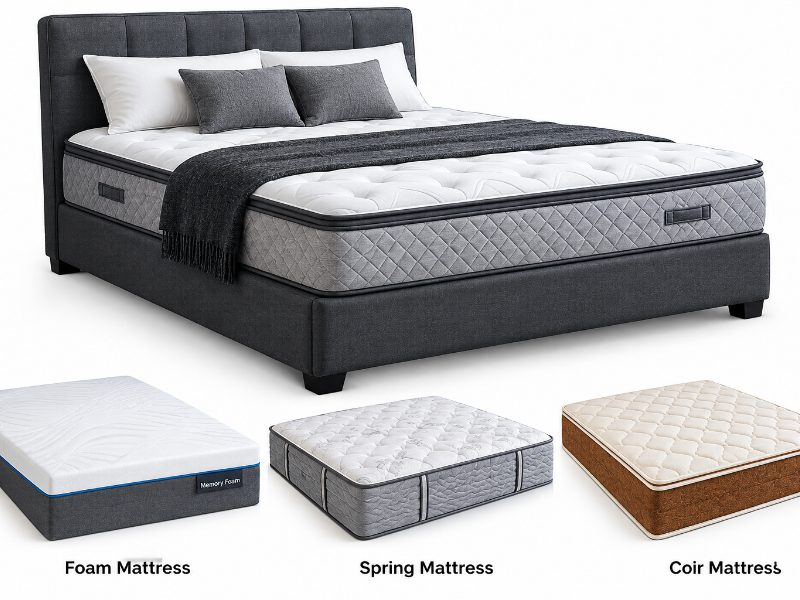
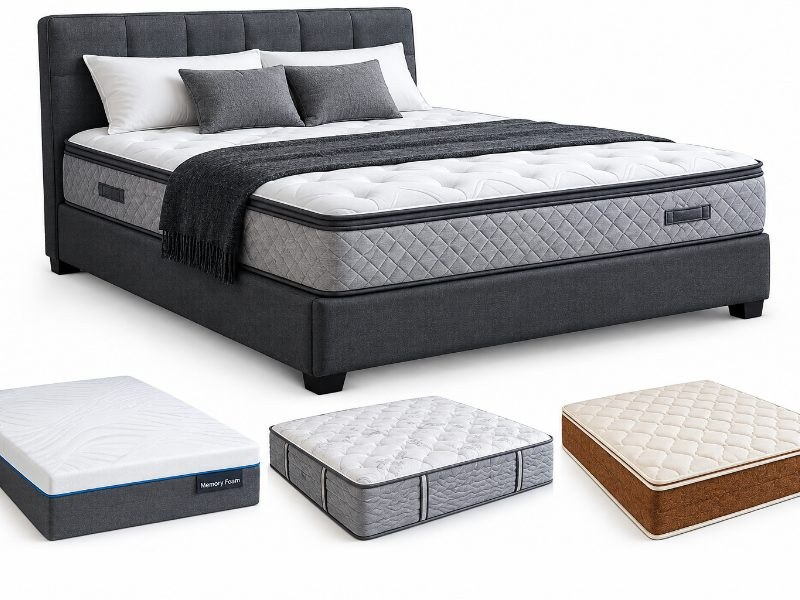
Remove printed labels from photos, plain form messages, owner checklist
- Paint out the 'Moulded Chair', 'Steel Stool' and mattress-type labels
  baked into four product images; version their URLs past the 1-year cache
- Rewrite enquiry form status messages without dashes
- Delete the unused public/previews design mockups
- Add OWNER-TODO.md: photos, owner note, claims to verify, guessed products

Claude-Session: https://claude.ai/code/session_01XQYbbGfWM6s62qHx4fDPNs

Changed region(s): [[0.4375, 0.93, 0.625, 0.96], [0.0625, 0.93, 0.25, 0.96], [0.8438, 0.93, 0.9688, 0.96]]

diff --git a/public/js/main.js b/public/js/main.js
@@ -418,13 +418,13 @@
         }).then(function (res) {
           if (res.ok) {
             sendToWhatsApp(fallbackWa,
-              'Thanks — your enquiry has been sent. We will call you back on ' + phone +
+              'Got it, thanks. We’ll call you on ' + phone +
               '. Opening WhatsApp now.');
           } else {
-            sendToWhatsApp(fallbackWa, 'Opening WhatsApp with your enquiry — send the message to reach us.');
+            sendToWhatsApp(fallbackWa, 'Opening WhatsApp. Press send and the message comes to us.');
           }
         }).catch(function () {
-          sendToWhatsApp(fallbackWa, 'Opening WhatsApp with your enquiry — send the message to reach us.');
+          sendToWhatsApp(fallbackWa, 'Opening WhatsApp. Press send and the message comes to us.');
         });
       }
 
@@ -445,13 +445,13 @@
       }).then(function (r) {
         if (r.noBackend) return postToNetlify();
         if (!r.ok || !r.body.success) {
-          var msg = (r.body && r.body.error) || 'Could not save your enquiry. Please try again.';
+          var msg = (r.body && r.body.error) || 'That didn’t go through. Please try again, or call us on 99376 01505.';
           setStatus(msg, true);
           shake(submitEl);
           return null;
         }
         sendToWhatsApp(r.body.waLink,
-          'Thanks — your enquiry has been sent. We will call you back on ' + phone + '. Opening WhatsApp now.');
+          'Got it, thanks. We’ll call you on ' + phone + '. Opening WhatsApp now.');
         return null;
       }).catch(function () {
         /* Offline, or the request never landed. */

diff --git a/public/js/photos.js b/public/js/photos.js
@@ -11,12 +11,12 @@ window.BF_PHOTOS = {
   "feat-sofa": "feat-sofa.jpg",
   "cat-dining": "cat-dining.jpg",
   "feat-dining": "feat-dining.jpg",
-  "cat-mattress": "cat-mattress.jpg",
-  "feat-mattress": "feat-mattress.jpg",
+  "cat-mattress": "cat-mattress.jpg?v=2",
+  "feat-mattress": "feat-mattress.jpg?v=2",
   "cat-study": "cat-study.jpg",
   "feat-study": "feat-study.jpg",
-  "cat-plastic": "cat-plastic.jpg",
-  "feat-plastic": "feat-plastic.jpg",
+  "cat-plastic": "cat-plastic.jpg?v=2",
+  "feat-plastic": "feat-plastic.jpg?v=2",
   "cat-mandir": "cat-mandir.jpg",
   "feat-mandir": "feat-mandir.jpg",
   "cat-tv": "cat-tv.jpg",

diff --git a/public/404.html b/public/404.html
@@ -53,8 +53,8 @@
     <div class="footer-copy">© <span data-year>2026</span> Balaji Furnitures, Jharigam.</div>
   </footer>
 </div>
-<script src="/js/photos.js"></script>
+<script src="/js/photos.js?v=4"></script>
 <script src="/js/data.js?v=4"></script>
-<script src="/js/main.js?v=8"></script>
+<script src="/js/main.js?v=9"></script>
 </body>
 </html>

diff --git a/public/privacy-policy.html b/public/privacy-policy.html
@@ -71,8 +71,8 @@
     <div class="footer-copy">© 2026 Balaji Furnitures, Jharigam.</div>
   </footer>
 </div>
-<script src="js/photos.js?v=3"></script>
+<script src="js/photos.js?v=4"></script>
 <script src="js/data.js?v=4"></script>
-<script src="js/main.js?v=8"></script>
+<script src="js/main.js?v=9"></script>
 </body>
 </html>

diff --git a/public/refund-policy.html b/public/refund-policy.html
@@ -70,8 +70,8 @@
     <div class="footer-copy">© 2026 Balaji Furnitures, Jharigam.</div>
   </footer>
 </div>
-<script src="js/photos.js?v=3"></script>
+<script src="js/photos.js?v=4"></script>
 <script src="js/data.js?v=4"></script>
-<script src="js/main.js?v=8"></script>
+<script src="js/main.js?v=9"></script>
 </body>
 </html>

diff --git a/public/shipping-delivery-policy.html b/public/shipping-delivery-policy.html
@@ -70,8 +70,8 @@
     <div class="footer-copy">© 2026 Balaji Furnitures, Jharigam.</div>
   </footer>
 </div>
-<script src="js/photos.js?v=3"></script>
+<script src="js/photos.js?v=4"></script>
 <script src="js/data.js?v=4"></script>
-<script src="js/main.js?v=8"></script>
+<script src="js/main.js?v=9"></script>
 </body>
 </html>

diff --git a/public/terms.html b/public/terms.html
@@ -73,8 +73,8 @@
     <div class="footer-copy">© 2026 Balaji Furnitures, Jharigam.</div>
   </footer>
 </div>
-<script src="js/photos.js?v=3"></script>
+<script src="js/photos.js?v=4"></script>
 <script src="js/data.js?v=4"></script>
-<script src="js/main.js?v=8"></script>
+<script src="js/main.js?v=9"></script>
 </body>
 </html>

diff --git a/public/products.html b/public/products.html
@@ -114,9 +114,9 @@
 
 </div>
 
-<script src="js/photos.js?v=3"></script>
+<script src="js/photos.js?v=4"></script>
 <script src="js/data.js?v=4"></script>
-<script src="js/main.js?v=8"></script>
+<script src="js/main.js?v=9"></script>
 <script src="js/products.js?v=4"></script>
 </body>
 </html>

diff --git a/public/index.html b/public/index.html
@@ -251,8 +251,8 @@
   </div>
 
 </div>
-<script src="js/photos.js?v=3"></script>
+<script src="js/photos.js?v=4"></script>
 <script src="js/data.js?v=4"></script>
-<script src="js/main.js?v=8"></script>
+<script src="js/main.js?v=9"></script>
 </body>
 </html>

diff --git a/public/about.html b/public/about.html
@@ -148,8 +148,8 @@
 
 </div>
 
-<script src="js/photos.js?v=3"></script>
+<script src="js/photos.js?v=4"></script>
 <script src="js/data.js?v=4"></script>
-<script src="js/main.js?v=8"></script>
+<script src="js/main.js?v=9"></script>
 </body>
 </html>

diff --git a/public/contact.html b/public/contact.html
@@ -175,8 +175,8 @@
 
 </div>
 
-<script src="js/photos.js?v=3"></script>
+<script src="js/photos.js?v=4"></script>
 <script src="js/data.js?v=4"></script>
-<script src="js/main.js?v=8"></script>
+<script src="js/main.js?v=9"></script>
 </body>
 </html>

diff --git a/OWNER-TODO.md b/OWNER-TODO.md
@@ -1,0 +1,55 @@
+# Things only the shop can fix
+
+The code and wording are done. What's left needs someone from the shop.
+
+## 1. Real photos (most important)
+
+The product and category pictures are catalogue-style renders, not photos of
+the shop. Anyone who has visited will notice. Take them on a phone:
+
+- The shop front from the road, with the board visible (use it as the hero photo)
+- One photo per category, taken in the showroom: beds, almirahs, sofas,
+  dining sets, mattresses, study tables, plastic/steel, mandir, TV units, chairs
+- A close-up of teak and sheesham grain, for the About page
+- Akhil inside the shop, to replace the passport-style photo
+
+Daylight, no filters. A bit of the real shop in the background is fine.
+It makes the photos look real.
+
+Install them with `scripts/install-photos.mjs`. Instructions are in
+`scripts/README.md`.
+
+## 2. Akhil's note, in his own words
+
+`public/index.html` and `public/about.html` (search for `owner-quote`).
+The current text only uses facts the site already had, but Akhil should
+say it his way. Odia or Hindi words he would really use are fine.
+
+## 3. Check these claims are true
+
+They were on the site before the rewrite. If any is wrong, change it or
+delete it. A wrong promise does more damage than a missing one.
+
+| Claim | Where |
+|---|---|
+| One-year warranty on furniture | `public/js/data.js` (serviceCards, faqs) |
+| Free delivery and fitting within 25 km | `data.js`, `shipping-delivery-policy.html` |
+| EMI on some items | `data.js` (faqs), `index.html` (offer) |
+| Exchange old furniture | `data.js`, `index.html` (offer) |
+| Custom pieces in 2–3 weeks, free home measuring | `index.html`, `data.js` |
+| Polish and repair, also for furniture bought elsewhere | `data.js` (serviceCards) |
+| Most sofas, dining sets and chairs are sheesham | `data.js` (woodTypes) |
+| Mattress brands: Kurlon, Duroflex, Springwel | `data.js` (featured, brands) |
+
+## 4. The four guessed products
+
+In `public/js/data.js` under `extraProducts`: moulded chair and steel stool,
+wooden mandir, TV unit, dining chair pair. The names and descriptions are
+guesses. Replace them with things actually in the shop.
+
+## 5. Nice to have
+
+- Prices or "starting from" prices. Real shops show them, and a site with
+  none can look like a template.
+- A Google Maps review count or a couple of real customer names (with permission).
+- An Instagram or Facebook page link, if the shop has one (`socialLinks` in `data.js`).
